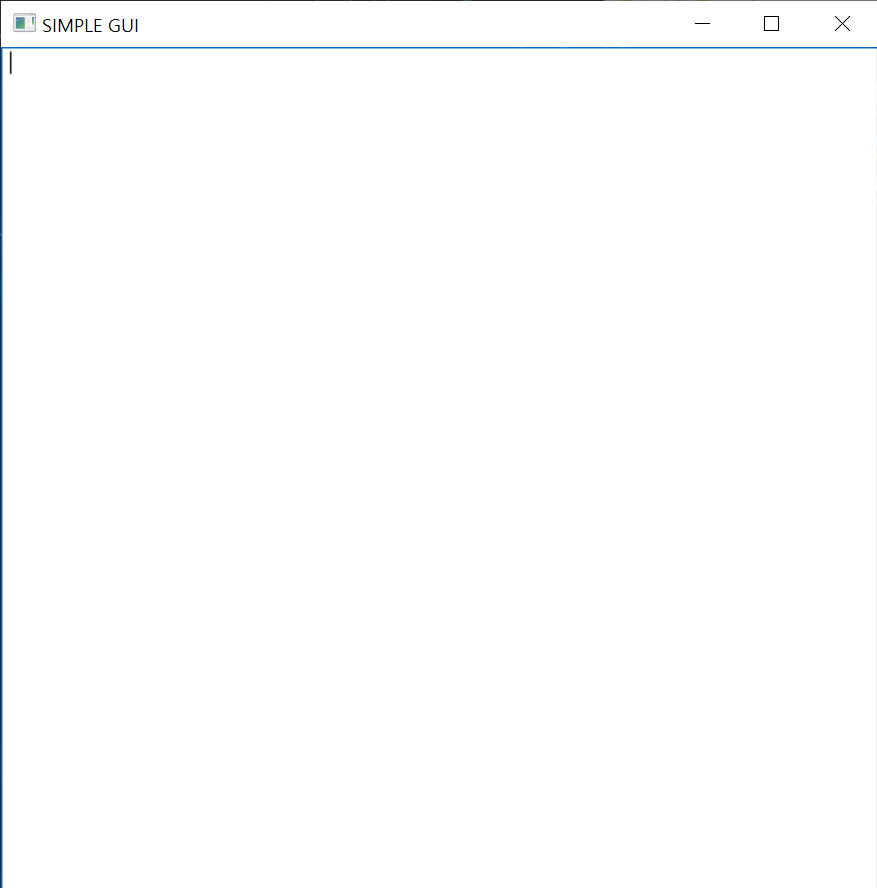
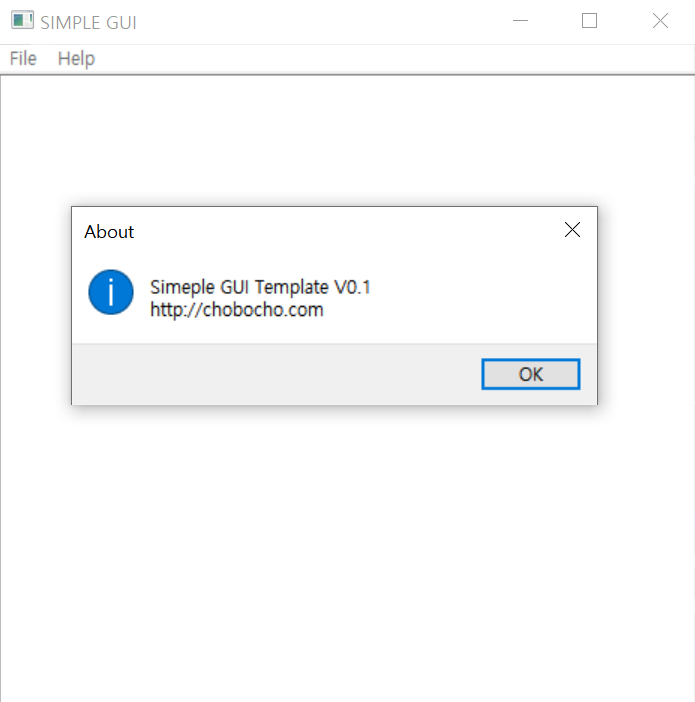
Add menu, button example

diff --git a/src/simpleguipanel.py b/src/simpleguipanel.py
@@ -1,17 +1,33 @@
 import wx
 from filedrop import *
 
+WINDOW_SIZE = 480
+
 class SimpleGuiPanel(wx.Panel):
     def __init__(self, *args, **kw):
         super(SimpleGuiPanel, self).__init__(*args, **kw)
         filedrop = FileDrop(self)
         self.SetDropTarget(filedrop)
+        self._initUi()
+        self.SetAutoLayout(True)
 
+
+    def _initUi(self):
         sizer = wx.BoxSizer(wx.VERTICAL)
-        self.text = wx.TextCtrl(self, style = wx.TE_PROCESS_ENTER,size=(600,600))
+        self.text = wx.TextCtrl(self, style = wx.TE_PROCESS_ENTER, size=(WINDOW_SIZE,WINDOW_SIZE))
         self.text.SetValue("")
         sizer.Add(self.text, 1, wx.EXPAND)
         
+        btnBox = wx.BoxSizer(wx.HORIZONTAL)
+
+        clearBtnId = wx.NewId()
+        clearBtn = wx.Button(self, clearBtnId, "Clear", size=(50,30))
+        clearBtn.Bind(wx.EVT_BUTTON, self.OnClearBtn)
+        btnBox.Add(clearBtn, 1, wx.ALIGN_CENTRE|wx.ALL, 5)
+
+        sizer.Add(btnBox, 0, wx.ALIGN_CENTER_VERTICAL, 5)
+        self.SetSizer(sizer)
+
     def OnCallback(self, filelist):
         self._printFileList(filelist)
 
@@ -20,3 +36,6 @@ class SimpleGuiPanel(wx.Panel):
         for file in files:
             fileList += file + "\n"
         self.text.SetValue(fileList)
+
+    def OnClearBtn(self, event):
+        self.text.SetValue("")

diff --git a/src/simpleguiframe.py b/src/simpleguiframe.py
@@ -9,3 +9,28 @@ class SimpleGuiFrame(wx.Frame):
         sizer = wx.BoxSizer(wx.VERTICAL)
         sizer.Add(self.panel, 1, wx.EXPAND)
         self.SetSizer(sizer)
+
+        self._addMenubar()
+
+    def _addMenubar(self):
+        menubar = wx.MenuBar()
+        fileMenu = wx.Menu()
+        fileItem = fileMenu.Append(wx.ID_EXIT, 'Quit', 'Quit App')
+        self.Bind(wx.EVT_MENU, self.OnQuit, fileItem)
+        menubar.Append(fileMenu, '&File')
+
+        helpMenu = wx.Menu()
+        aboutItemId = wx.NewId()
+        aboutItem = helpMenu.Append(aboutItemId, 'About', 'About')
+        self.Bind(wx.EVT_MENU, self.OnAbout, aboutItem)
+        menubar.Append(helpMenu, '&Help')
+
+        self.SetMenuBar(menubar)
+
+    def OnQuit(self, event):
+        self.Close()
+
+    def OnAbout(self, event):
+        msg = 'Simeple GUI Template V0.1\nhttp://chobocho.com'
+        title = 'About'
+        wx.MessageBox(msg, title, wx.OK | wx.ICON_INFORMATION)

diff --git a/src/simplegui.py b/src/simplegui.py
@@ -2,10 +2,11 @@ import wx
 from simpleguiframe import *
 
 SW_TITLE = "SIMPLE GUI"
+WINDOW_SIZE = 480
 
 def main(): 
     app = wx.App()
-    frm = SimpleGuiFrame(None, title=SW_TITLE, size=(600,600))
+    frm = SimpleGuiFrame(None, title=SW_TITLE, size=(WINDOW_SIZE,WINDOW_SIZE))
     frm.Show()
     app.MainLoop()
 
